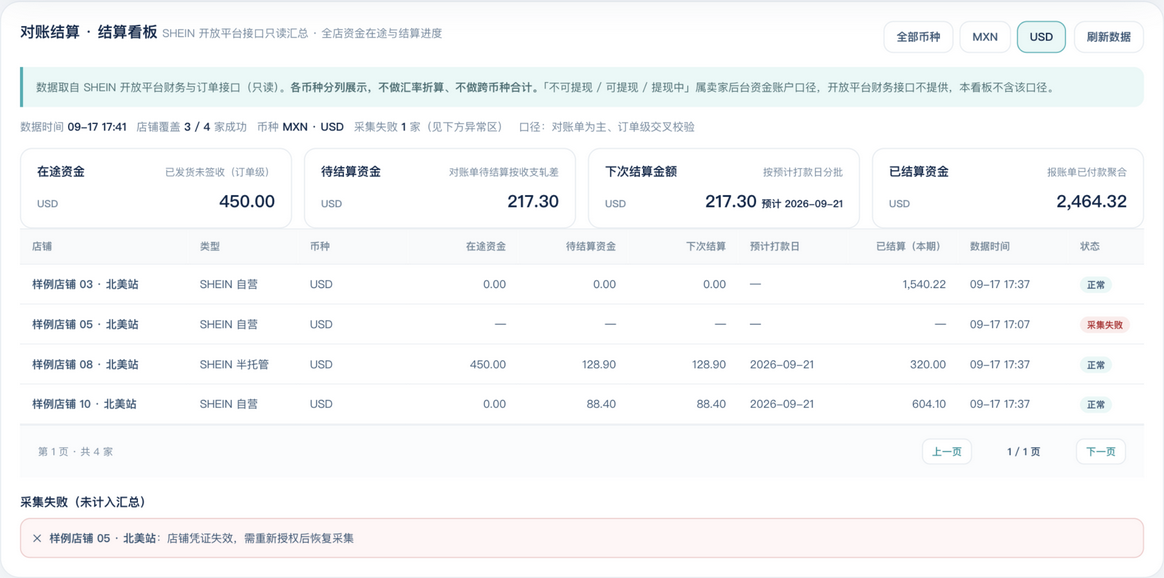
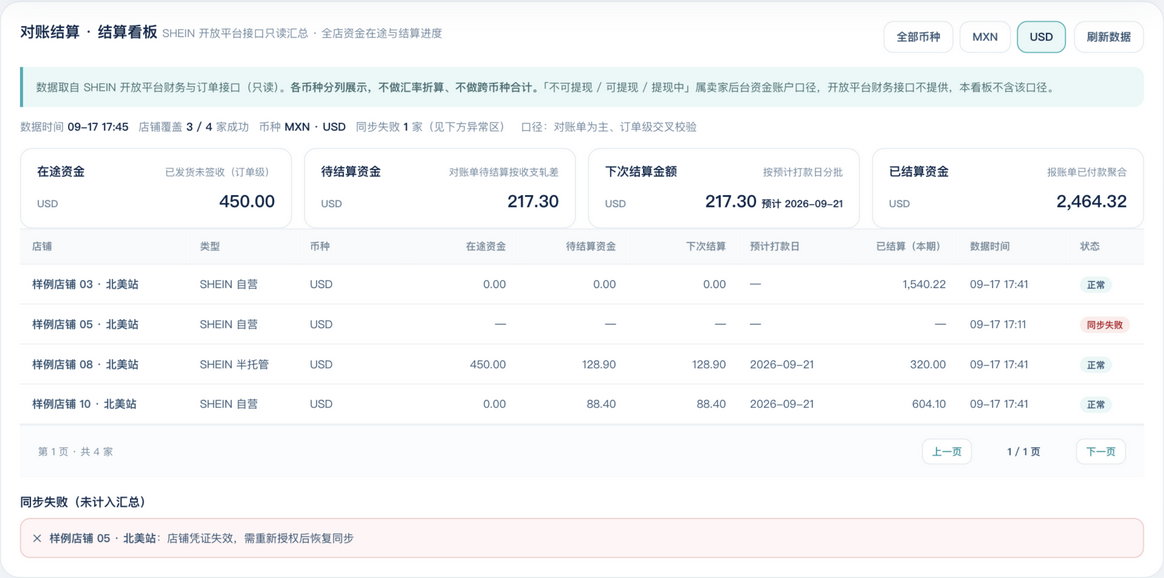
fix(finance): 结算看板弃用「采集」措辞，统一为接口口径的「同步」
「采集」是巡检自动化时代的词，本模块已确定走 SHEIN 开放平台接口取数，
继续沿用会让财务误以为还是浏览器抓取。状态徽章、状态条、异常区标题与
说明文案统一改为「同步失败」；需求文档的界面描述同步对齐
（工程章节的「拉取」保留，那是接口语义）。

diff --git a/cloud/auth-service/src/xynigo_auth/web/index.html b/cloud/auth-service/src/xynigo_auth/web/index.html
@@ -13726,7 +13726,7 @@ function settleMockStores() {
     { name: '样例店铺 05 · 北美站', mode: 'SHEIN 自营', currency: 'USD',
       inTransit: null, unsettled: null, nextSettle: null,
       nextPayDate: '', settled: null, at: stale, status: 'fail',
-      note: '店铺凭证失效，需重新授权后恢复采集' },
+      note: '店铺凭证失效，需重新授权后恢复同步' },
     { name: '样例店铺 06 · 拉美站', mode: 'SHEIN 自营', currency: 'MXN',
       inTransit: 2210.30, unsettled: 1580.66, nextSettle: 1580.66,
       nextPayDate: '2026-09-28', settled: 4470.00, at: fresh, status: 'warn',
@@ -13831,7 +13831,7 @@ function settleRenderStatus() {
     `<span>数据时间 <b>${settleTime(SETTLE_STATE.refreshedAt)}</b></span>`,
     `<span>店铺覆盖 <b>${okCount} / ${stores.length}</b> 家成功</span>`,
     `<span>币种 <b>${currencies.length ? currencies.join(' · ') : '—'}</b></span>`,
-    failCount ? `<span>采集失败 <b>${failCount}</b> 家（见下方异常区）</span>` : '',
+    failCount ? `<span>同步失败 <b>${failCount}</b> 家（见下方异常区）</span>` : '',
     '<span>口径：对账单为主、订单级交叉校验</span>'
   ].filter(Boolean).join('');
 }
@@ -13872,7 +13872,7 @@ function settleRenderTable() {
   if (!rows.length) {
     body.innerHTML = '<tr><td colspan="10" class="admin-empty">当前币种下没有已授权店铺</td></tr>';
   } else {
-    const badge = { ok: ['ok', '正常'], warn: ['warn', '有差异'], fail: ['fail', '采集失败'] };
+    const badge = { ok: ['ok', '正常'], warn: ['warn', '有差异'], fail: ['fail', '同步失败'] };
     body.innerHTML = rows.map(store => {
       const [cls, label] = badge[store.status] || badge.ok;
       return `<tr>
@@ -13910,13 +13910,13 @@ function settleRenderAlerts() {
       `<div class="settle-alert warn"><span>⚠</span><span><strong>${store.name}</strong>：${store.note}</span></div>`));
   }
   if (fails.length) {
-    blocks.push('<div class="settle-alerts-title">采集失败（未计入汇总）</div>');
+    blocks.push('<div class="settle-alerts-title">同步失败（未计入汇总）</div>');
     fails.forEach(store => blocks.push(
       `<div class="settle-alert fail"><span>✕</span><span><strong>${store.name}</strong>：${store.note}</span></div>`));
   }
   if (!blocks.length) {
     blocks.push('<div class="settle-alerts-title">对账差异</div>');
-    blocks.push('<div class="settle-alert"><span>✓</span><span>当前范围内无差异、无采集失败。</span></div>');
+    blocks.push('<div class="settle-alert"><span>✓</span><span>当前范围内无差异、无同步失败。</span></div>');
   }
   host.innerHTML = blocks.join('');
 }

diff --git a/docs/prototypes/20260917-settlement-dashboard/本地预览-结算看板.html b/docs/prototypes/20260917-settlement-dashboard/本地预览-结算看板.html
@@ -13726,7 +13726,7 @@ function settleMockStores() {
     { name: '样例店铺 05 · 北美站', mode: 'SHEIN 自营', currency: 'USD',
       inTransit: null, unsettled: null, nextSettle: null,
       nextPayDate: '', settled: null, at: stale, status: 'fail',
-      note: '店铺凭证失效，需重新授权后恢复采集' },
+      note: '店铺凭证失效，需重新授权后恢复同步' },
     { name: '样例店铺 06 · 拉美站', mode: 'SHEIN 自营', currency: 'MXN',
       inTransit: 2210.30, unsettled: 1580.66, nextSettle: 1580.66,
       nextPayDate: '2026-09-28', settled: 4470.00, at: fresh, status: 'warn',
@@ -13831,7 +13831,7 @@ function settleRenderStatus() {
     `<span>数据时间 <b>${settleTime(SETTLE_STATE.refreshedAt)}</b></span>`,
     `<span>店铺覆盖 <b>${okCount} / ${stores.length}</b> 家成功</span>`,
     `<span>币种 <b>${currencies.length ? currencies.join(' · ') : '—'}</b></span>`,
-    failCount ? `<span>采集失败 <b>${failCount}</b> 家（见下方异常区）</span>` : '',
+    failCount ? `<span>同步失败 <b>${failCount}</b> 家（见下方异常区）</span>` : '',
     '<span>口径：对账单为主、订单级交叉校验</span>'
   ].filter(Boolean).join('');
 }
@@ -13872,7 +13872,7 @@ function settleRenderTable() {
   if (!rows.length) {
     body.innerHTML = '<tr><td colspan="10" class="admin-empty">当前币种下没有已授权店铺</td></tr>';
   } else {
-    const badge = { ok: ['ok', '正常'], warn: ['warn', '有差异'], fail: ['fail', '采集失败'] };
+    const badge = { ok: ['ok', '正常'], warn: ['warn', '有差异'], fail: ['fail', '同步失败'] };
     body.innerHTML = rows.map(store => {
       const [cls, label] = badge[store.status] || badge.ok;
       return `<tr>
@@ -13910,13 +13910,13 @@ function settleRenderAlerts() {
       `<div class="settle-alert warn"><span>⚠</span><span><strong>${store.name}</strong>：${store.note}</span></div>`));
   }
   if (fails.length) {
-    blocks.push('<div class="settle-alerts-title">采集失败（未计入汇总）</div>');
+    blocks.push('<div class="settle-alerts-title">同步失败（未计入汇总）</div>');
     fails.forEach(store => blocks.push(
       `<div class="settle-alert fail"><span>✕</span><span><strong>${store.name}</strong>：${store.note}</span></div>`));
   }
   if (!blocks.length) {
     blocks.push('<div class="settle-alerts-title">对账差异</div>');
-    blocks.push('<div class="settle-alert"><span>✓</span><span>当前范围内无差异、无采集失败。</span></div>');
+    blocks.push('<div class="settle-alert"><span>✓</span><span>当前范围内无差异、无同步失败。</span></div>');
   }
   host.innerHTML = blocks.join('');
 }

diff --git a/src/purchase_tool/web/index.html b/src/purchase_tool/web/index.html
@@ -13726,7 +13726,7 @@ function settleMockStores() {
     { name: '样例店铺 05 · 北美站', mode: 'SHEIN 自营', currency: 'USD',
       inTransit: null, unsettled: null, nextSettle: null,
       nextPayDate: '', settled: null, at: stale, status: 'fail',
-      note: '店铺凭证失效，需重新授权后恢复采集' },
+      note: '店铺凭证失效，需重新授权后恢复同步' },
     { name: '样例店铺 06 · 拉美站', mode: 'SHEIN 自营', currency: 'MXN',
       inTransit: 2210.30, unsettled: 1580.66, nextSettle: 1580.66,
       nextPayDate: '2026-09-28', settled: 4470.00, at: fresh, status: 'warn',
@@ -13831,7 +13831,7 @@ function settleRenderStatus() {
     `<span>数据时间 <b>${settleTime(SETTLE_STATE.refreshedAt)}</b></span>`,
     `<span>店铺覆盖 <b>${okCount} / ${stores.length}</b> 家成功</span>`,
     `<span>币种 <b>${currencies.length ? currencies.join(' · ') : '—'}</b></span>`,
-    failCount ? `<span>采集失败 <b>${failCount}</b> 家（见下方异常区）</span>` : '',
+    failCount ? `<span>同步失败 <b>${failCount}</b> 家（见下方异常区）</span>` : '',
     '<span>口径：对账单为主、订单级交叉校验</span>'
   ].filter(Boolean).join('');
 }
@@ -13872,7 +13872,7 @@ function settleRenderTable() {
   if (!rows.length) {
     body.innerHTML = '<tr><td colspan="10" class="admin-empty">当前币种下没有已授权店铺</td></tr>';
   } else {
-    const badge = { ok: ['ok', '正常'], warn: ['warn', '有差异'], fail: ['fail', '采集失败'] };
+    const badge = { ok: ['ok', '正常'], warn: ['warn', '有差异'], fail: ['fail', '同步失败'] };
     body.innerHTML = rows.map(store => {
       const [cls, label] = badge[store.status] || badge.ok;
       return `<tr>
@@ -13910,13 +13910,13 @@ function settleRenderAlerts() {
       `<div class="settle-alert warn"><span>⚠</span><span><strong>${store.name}</strong>：${store.note}</span></div>`));
   }
   if (fails.length) {
-    blocks.push('<div class="settle-alerts-title">采集失败（未计入汇总）</div>');
+    blocks.push('<div class="settle-alerts-title">同步失败（未计入汇总）</div>');
     fails.forEach(store => blocks.push(
       `<div class="settle-alert fail"><span>✕</span><span><strong>${store.name}</strong>：${store.note}</span></div>`));
   }
   if (!blocks.length) {
     blocks.push('<div class="settle-alerts-title">对账差异</div>');
-    blocks.push('<div class="settle-alert"><span>✓</span><span>当前范围内无差异、无采集失败。</span></div>');
+    blocks.push('<div class="settle-alert"><span>✓</span><span>当前范围内无差异、无同步失败。</span></div>');
   }
   host.innerHTML = blocks.join('');
 }

diff --git a/docs/20260917_需求_财务中心结算看板.md b/docs/20260917_需求_财务中心结算看板.md
@@ -130,7 +130,7 @@
    - 支持排序、筛选、导出（沿用既有 `procurement-pagination` 分页）
 3. **对账异常与失败区**
    - 订单级聚合 vs 对账单净额的差额（超阈值告警）——这是结算调整与数据异常的雷达
-   - 拉取失败的店铺与具体原因（凭证失效 / 无权限 / 限流 / 窗口越界）
+   - 同步失败的店铺与具体原因（凭证失效 / 无权限 / 限流 / 窗口越界）
 
 UI 沿用既有规约：卡片式类型选择器、侧栏线性图标、吸顶状态条、分页复用采购列表样式。
 
